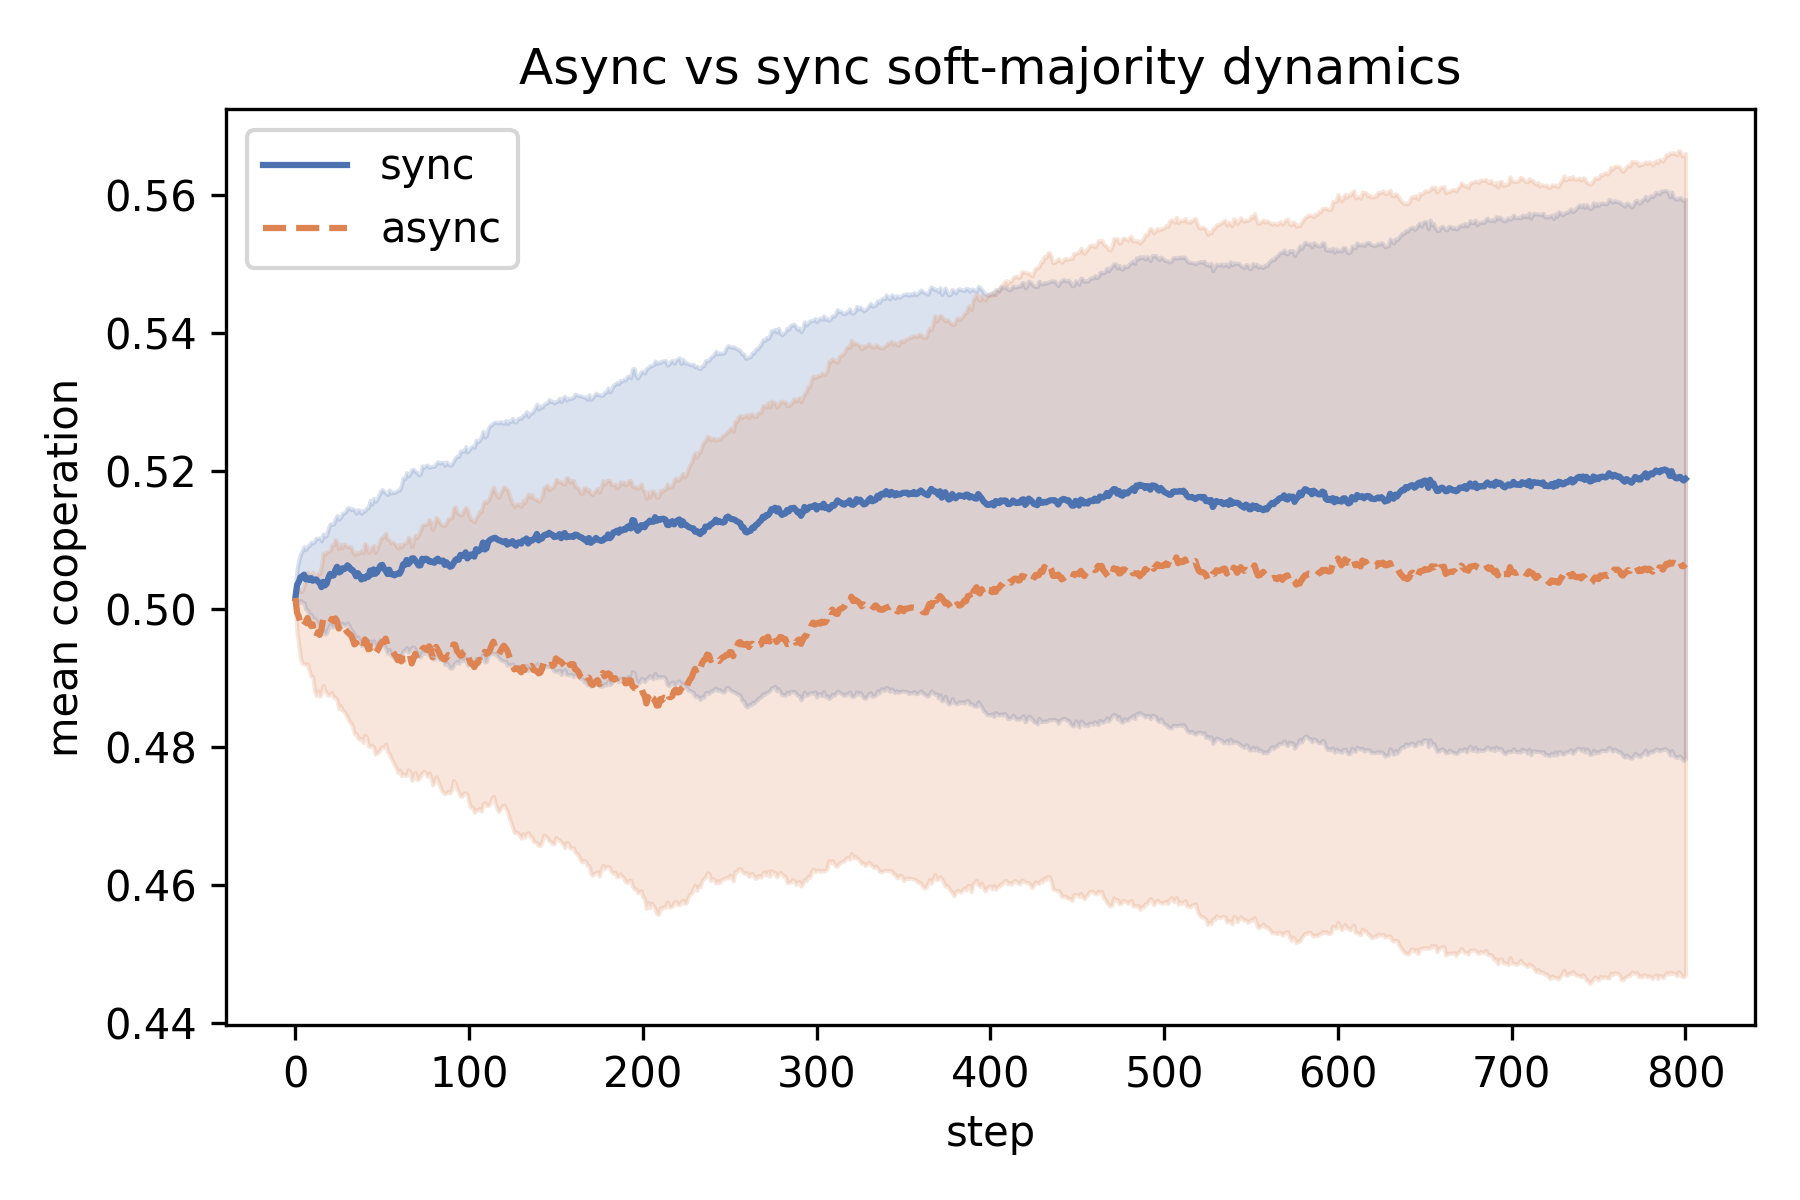
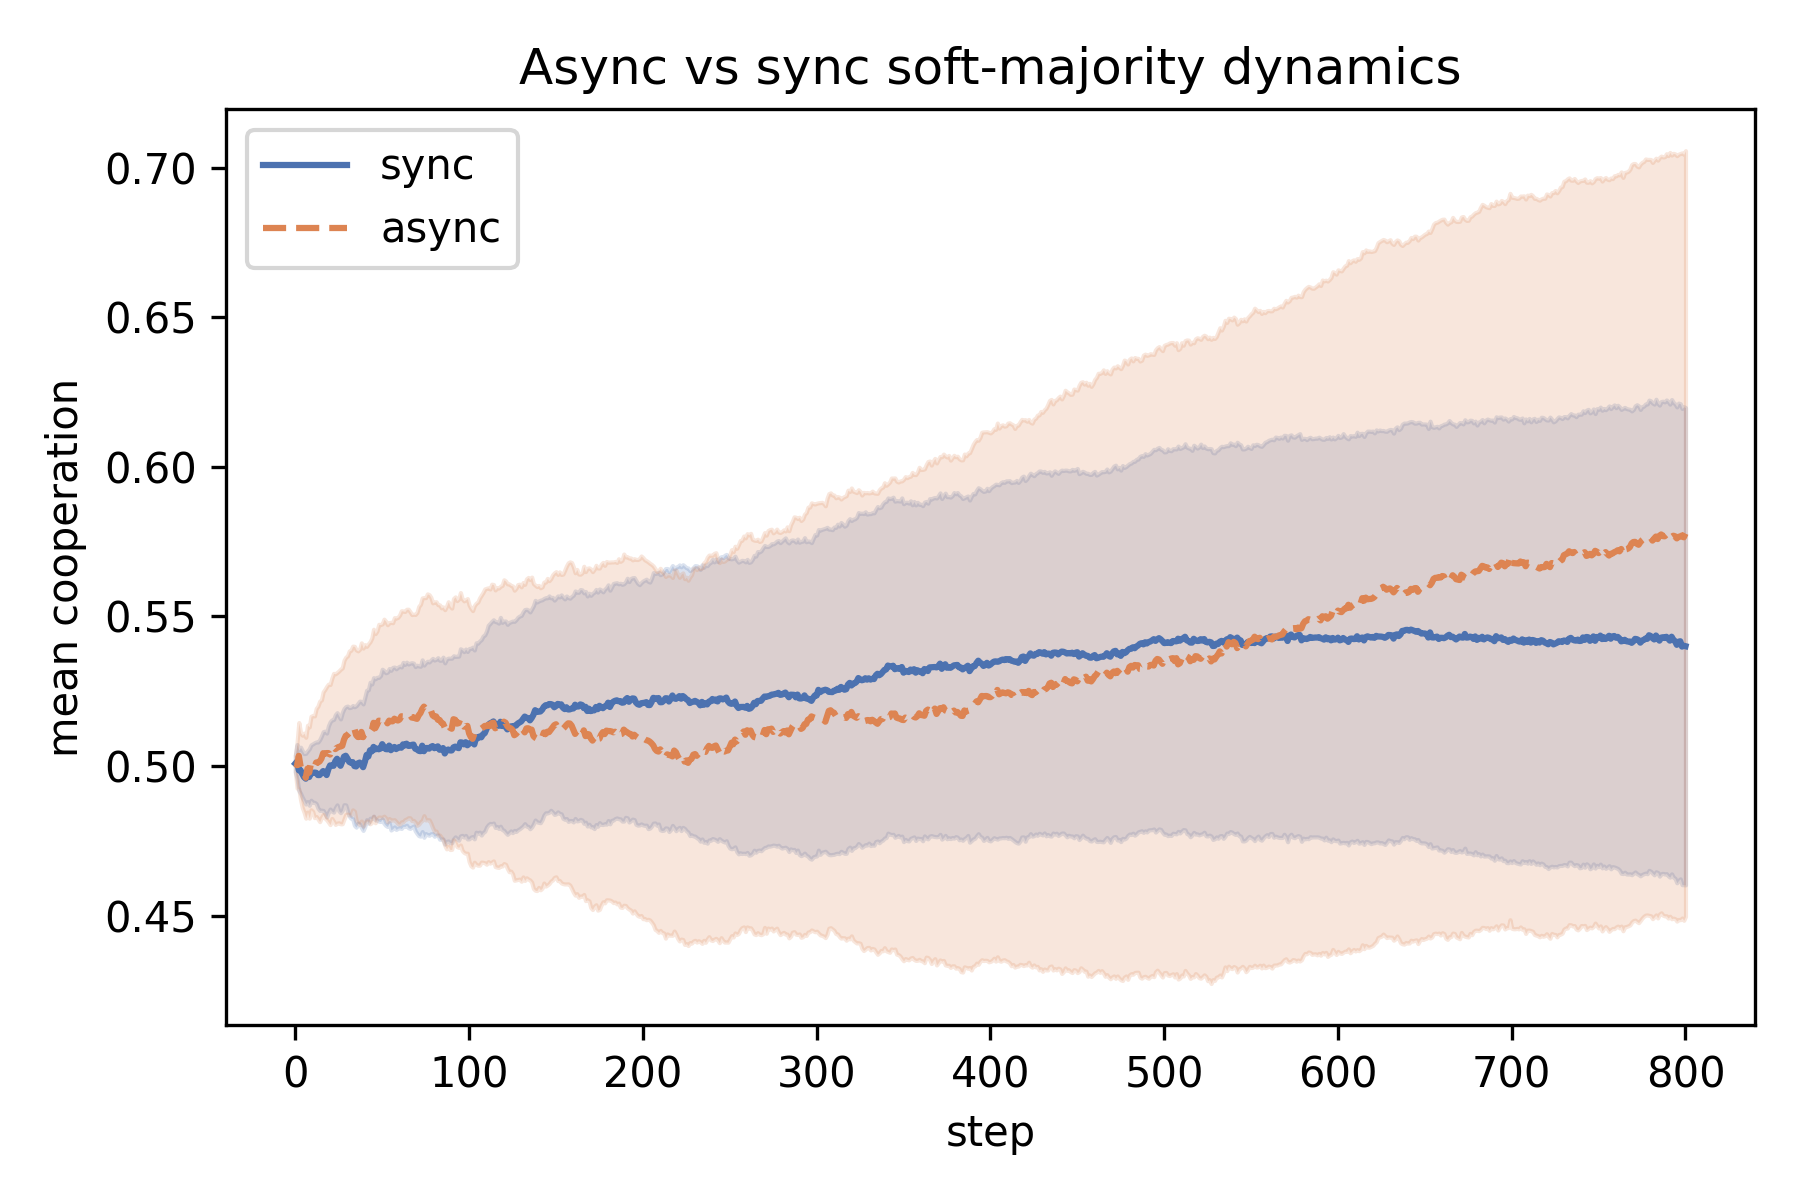
Repro: pin seeds, record ABM/RL params, refresh canonical figures

diff --git a/code/abm_shock_observer.py b/code/abm_shock_observer.py
@@ -132,7 +132,7 @@ def main() -> None:
     parser.add_argument("--intervene-len", type=int, default=50)
     parser.add_argument("--theta-base", type=float, default=2.0)
     parser.add_argument("--theta-intervene", type=float, default=2.0)
-    parser.add_argument("--seeds", type=int, default=32)
+    parser.add_argument("--seeds", type=int, default=8)
     args = parser.parse_args()
 
     grid = tuple(args.grid)
@@ -197,12 +197,14 @@ def main() -> None:
 
     plt.figure(figsize=(6, 4))
     plt.axvline(args.t_shock, color="#999999", linestyle=":", label="shock time")
+    plt.axhline(args.mu_min, color="#999999", linestyle="--", label="monitor threshold")
     plt.plot(t, mu_no, label="shock only", color="#4C72B0")
     plt.fill_between(t, mu_no - sem_no, mu_no + sem_no, color="#4C72B0", alpha=0.2)
     plt.plot(t, mu_obs, label="shock + observer", color="#DD8452", linestyle="--")
     plt.fill_between(t, mu_obs - sem_obs, mu_obs + sem_obs, color="#DD8452", alpha=0.2)
     plt.xlabel("step")
     plt.ylabel("mean cooperation")
+    plt.ylim(0.0, 1.0)
     plt.title("Shock recovery with/without observer intervention")
     plt.legend()
     plt.tight_layout()

diff --git a/code/rl.py b/code/rl.py
@@ -149,6 +149,16 @@ def main() -> None:
     coop_agent_tft, coop_opp_tft = [], []
     coop_agent_rand, coop_opp_rand = [], []
 
+    agent_hparams = {
+        "alpha": float(QAgent().alpha),
+        "gamma": float(QAgent().gamma),
+        "eps_start": float(QAgent().eps_start),
+        "eps_end": float(QAgent().eps_end),
+        "eps_decay": float(QAgent().decay),
+        "eps_schedule": "linear_per_step_clamped",
+        "eps_formula": "eps=max(eps_end, eps_start - eps_decay*steps)",
+    }
+
     random.seed(42)
     np.random.seed(42)
 
@@ -173,9 +183,12 @@ def main() -> None:
         json.dump(
             {
                 "variant": variants,
+                "payoff_variants": PAYOFF_VARIANTS,
                 "episodes": args.episodes,
                 "horizon": args.horizon,
                 "seeds": args.seeds,
+                "rng_seed": 42,
+                "agent_hparams": agent_hparams,
                 "mean_coop_agent_tft": coop_agent_tft,
                 "mean_coop_opp_tft": coop_opp_tft,
                 "mean_coop_agent_rand": coop_agent_rand,

diff --git a/code/plot_async_vs_sync.py b/code/plot_async_vs_sync.py
@@ -54,7 +54,7 @@ def main() -> None:
     parser.add_argument("--noise", type=float, default=0.005)
     parser.add_argument("--rule", choices=["strict", "soft", "voter"], default="soft")
     parser.add_argument("--soft-k", type=float, default=4.0)
-    parser.add_argument("--seeds", type=int, default=32)
+    parser.add_argument("--seeds", type=int, default=8)
     args = parser.parse_args()
 
     grid = tuple(args.grid)

diff --git a/code/abm.py b/code/abm.py
@@ -221,6 +221,7 @@ def main() -> None:  # noqa: D401
                 "rule": args.rule,
                 "soft_k": args.soft_k,
                 "async": args.async_update,
+                "seed": args.seed,
                 "r2": r2,
                 "k_hat": k_hat,
                 "t50_hat": t50_hat,
